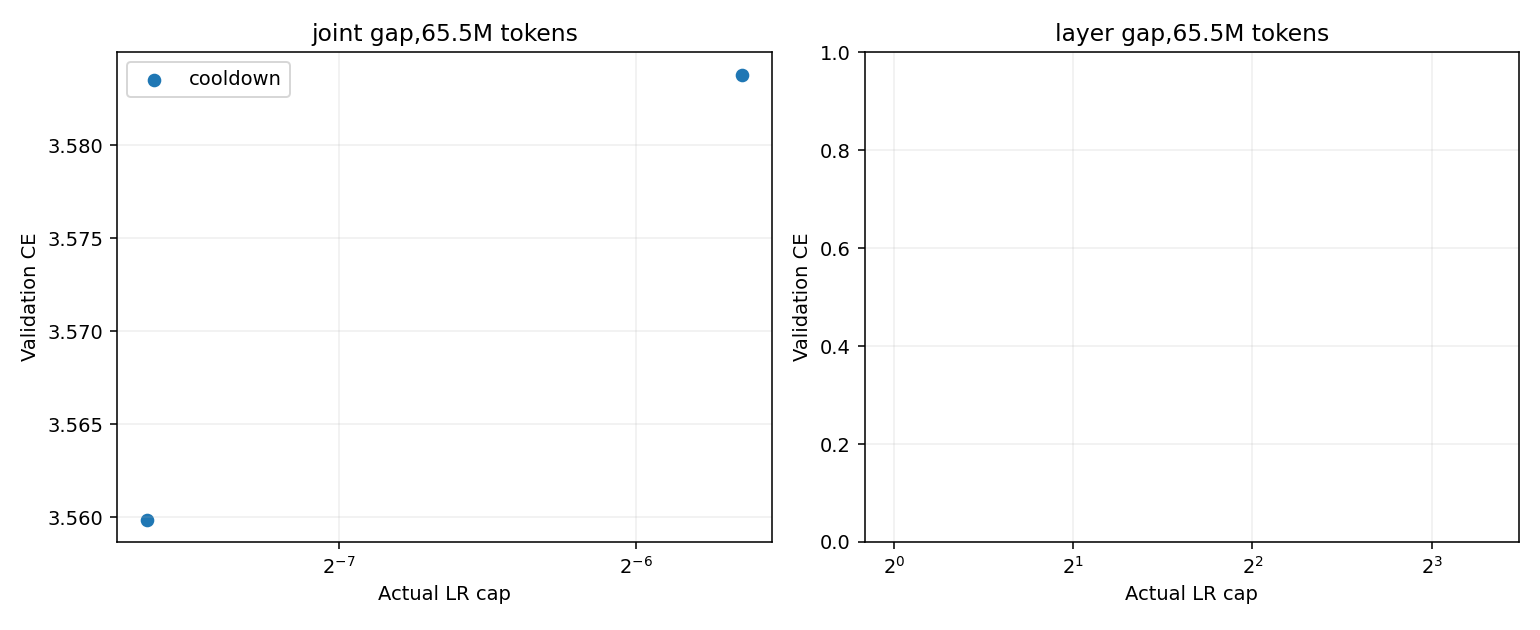
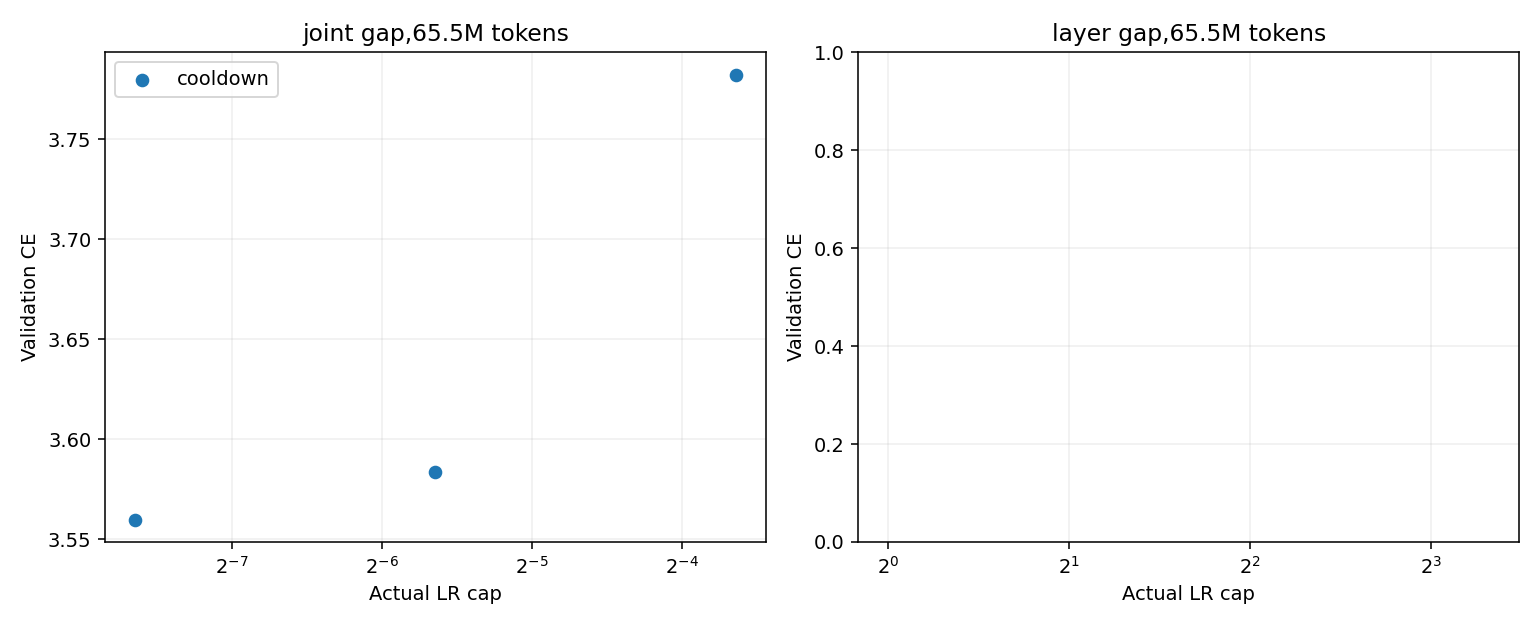
Update live Muon experiment results

diff --git a/research/unnormalized_muon/RESULTS.md b/research/unnormalized_muon/RESULTS.md
@@ -72,6 +72,7 @@ One B300 per job. CE is token cross-entropy (nats); lower is better. Rows with d
 | um-lens-main-control-lr0p08 | Clean Native cooldown v2 c-in-Q fixed_lambda=0.18375 WD:standard(0) | 2000 | 0 | 0.08 | 3.586261 | 1.087199 | — | 139.40 |
 | um-lens-main-joint-cooldown-cap0p005 | Clean GapWD joint uniform v2 c-in-Q quadratic cap0.005/cooldown fixed_lambda=0.18375 WD:standard(0) | 2000 | 0 | 0.04 | 3.559877 | 1.079192 | — | 252.91 |
 | um-lens-main-joint-cooldown-cap0p02 | Clean GapWD joint uniform v2 c-in-Q quadratic cap0.02/cooldown fixed_lambda=0.18375 WD:standard(0) | 2000 | 0 | 0.04 | 3.583797 | 1.086460 | — | 251.66 |
+| um-lens-main-joint-cooldown-cap0p08 | Clean GapWD joint uniform v2 c-in-Q quadratic cap0.08/cooldown fixed_lambda=0.18375 WD:standard(0) | 2000 | 0 | 0.04 | 3.782362 | 1.146569 | — | 274.88 |
 | um-screen-00-0-native-lr0p005 | Native cooldown | 2000 | 0 | 0.005 | 3.734536 | 1.132046 | — | 145.49 |
 | um-screen-00-1-scaled-lr0p0002 | Unnormalized cooldown | 2000 | 0 | 0.0002 | 4.818060 | 1.460343 | — | 153.42 |
 | um-screen-00-2-constant-lr0p0002 | Unnormalized constant | 2000 | 0 | 0.0002 | 4.581043 | 1.388601 | — | 151.98 |
@@ -111,7 +112,7 @@ One B300 per job. CE is token cross-entropy (nats); lower is better. Rows with d
 
 Review of um-fw-diagnostic-001: Compiled training f0 compared against functional candidate losses; vanishing-step mismatch2-4e-5 exceeded tolerance, leading to curvature1e186 and45 skipped steps. Replaced by paired functional reference and candidates; retain all645 measured forwards and GPUcost.
 
-Conservative charged/reserved total: 9.0490 / 30 B300 GPU-hours. Includes prior smoke/failed attempts and current maximum-duration reservations. Six-slot central queue; one B300 per run.
+Conservative charged/reserved total: 9.6482 / 30 B300 GPU-hours. Includes prior smoke/failed attempts and current maximum-duration reservations. Six-slot central queue; one B300 per run.
 
 CLEAN geometry disables row equilibration and NorMuon. Original clean runs use zero matrix decay; new WD runs explicitly label standard or cautious decay and their CLI coefficient. Same five Polar Express steps and Frobenius correction; scale by the per-matrix nonnegative FP32 inner product of the native Nesterov input with the NS/Frobenius direction. Shape scaling occurs once outside the scalar. Legacy rows retain production extras and must be compared separately. Constant schedule changes only matrix LR; auxiliary schedules and momentum remain matched.
 

diff --git a/research/unnormalized_muon/FW_LENS_RESULTS.md b/research/unnormalized_muon/FW_LENS_RESULTS.md
@@ -22,6 +22,7 @@ Token-based schedule curves are descriptive. Independently scheduled equal-time 
 | um-lens-main-control-lr0p08 | control | 2000 updates | 0 | 3.586261 | — | 71.566 | 0 | 31.026 | 139.40 |
 | um-lens-main-joint-cooldown-cap0p005 | joint-cooldown | 2000 updates | 0 | 3.559877 | — | 179.120 | 6000 | 30.768 | 252.91 |
 | um-lens-main-joint-cooldown-cap0p02 | joint-cooldown | 2000 updates | 0 | 3.583797 | — | 177.306 | 6000 | 31.193 | 251.66 |
+| um-lens-main-joint-cooldown-cap0p08 | joint-cooldown | 2000 updates | 0 | 3.782362 | — | 185.210 | 5999 | 40.958 | 274.88 |
 
 ## Adaptive diagnostics and contraction
 
@@ -37,5 +38,6 @@ Contraction is the actual coefficient product_t(1-lambda*eta_l,t), represented i
 | um-lens-check-8-warm-time-layer | 50/50 | 0 | 0.02 | 0.003675 | 2.2352e-10 | 1 | -0.179 to -0.1481 | 0.537713 |
 | um-lens-main-joint-cooldown-cap0p005 | 2000/2000 | 0 | 0.0037961 | 0.00069753 | 0.02 | 2 | -1.251 to -1.251 | 0.331184 |
 | um-lens-main-joint-cooldown-cap0p02 | 2000/2000 | 0 | 0.014877 | 0.0027337 | 0.01 | 2 | -4.967 to -4.967 | 0.424789 |
+| um-lens-main-joint-cooldown-cap0p08 | 2000/2000 | 0 | 0.038481 | 0.0070708 | 0.005 | 2 | -14.06 to -14.06 | 0.444955 |
 
 Curvature values in Armijo variants parameterize proposals; their acceptance is NOT a certificate of the quadratic upper model. Final spectral ratios are lambda*||W_l||op/c_l; native approximate NS output is not certified to have unit spectral norm. Initial/final iterate feasibility alone does not certify oracle accuracy. Cold two-second clock checks intentionally permit one-update overshoot; do not use them as quality endpoints.

diff --git a/research/unnormalized_muon/DETAILED_EVAL.md b/research/unnormalized_muon/DETAILED_EVAL.md
@@ -275,3 +275,9 @@ um-lens-main-joint-cooldown-cap0p02: accepted 2000/2000; skipped nonpositive blo
 
 Timing seconds: direction=55.577, reference=14.677, candidates=28.621, auxiliary=1.908.
 
+| um-lens-main-joint-cooldown-cap0p08 | joint native | 0.1837499 | 2000 | 3.782362 | 5999 | 274.88 |
+
+um-lens-main-joint-cooldown-cap0p08: accepted 2000/2000; skipped nonpositive blocks 227; median actual eta 0.0384805; median gamma 0.0070708; median L 0.005; median trials 2; max measured spectral ratio lambda*||W||op=0.444955. Native approximate NS can violate the ideal unit-oracle premise; this is recorded, not hidden.
+
+Timing seconds: direction=60.204, reference=14.729, candidates=28.415, auxiliary=1.871.
+
